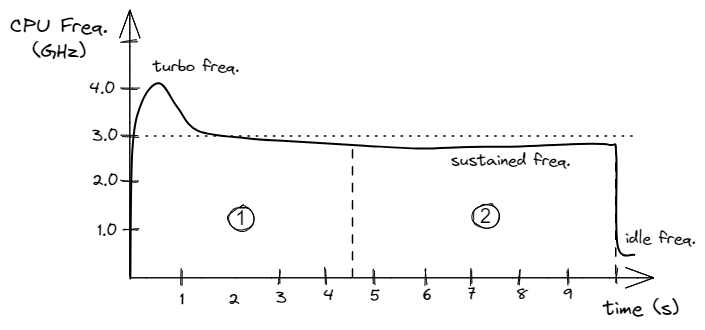
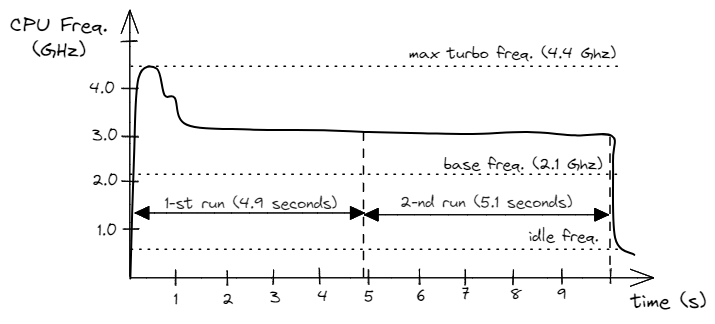
[Chapter2] Rewrite. part1

diff --git a/chapters/2-Measuring-Performance/2-1 Noise In Modern Systems.md b/chapters/2-Measuring-Performance/2-1 Noise In Modern Systems.md
@@ -1,20 +1,18 @@
-
-
 ## Noise in Modern Systems {#sec:secFairExperiments}
 
-There are many features in hardware and software that are designed to increase performance. But not all of them have deterministic behavior. Let's consider [Dynamic Frequency Scaling](https://en.wikipedia.org/wiki/Dynamic_frequency_scaling)[^11] (DFS): this is a feature that allows a CPU to increase its frequency for a short time interval, making it run significantly faster. However, the CPU can't stay in "overclocked" mode for a long time, so later, it decreases its frequency back to the base value. DFS usually depends a lot on a core temperature, which makes it hard to predict the impact on our experiments.
+There are many features in hardware and software that are designed to increase performance, but not all of them have deterministic behavior. Let's consider Dynamic Frequency Scaling (DFS), a feature that allows a CPU to increase its frequency for a short time interval, making it run significantly faster. However, the CPU can't stay in the "overclocked" mode for a long time, so later, it decreases its frequency back to the base value. DFS usually depends a lot on a core temperature, which makes it hard to predict the impact on our experiments.
 
-If we start two runs of the benchmark, one right after another on a "cold" processor,[^1] the first run could possibly work for some time in "overclocked" mode and then decrease its frequency back to the base level. However, it's possible that the second run might not have this advantage and will operate at the base frequency without entering "turbo mode". Even though we run the exact same version of the program two times, the environment in which they run is not the same. Figure @fig:FreqScaling shows a situation where dynamic frequency scaling can cause variance in measurements. As you can see, the first run is 1 second faster than the second one due to the fact that it was running on a higher frequency. Such a scenario can frequently happen when you benchmark software on a laptop since laptops have limited heat dissipation.
+If we start two runs of the benchmark, one right after another on a "cold" processor,[^1] the first run could possibly work for some time in the "overclocked" mode and then decrease its frequency back to the base level. However, it's possible that the second run might not have this advantage and will operate at the base frequency without entering "turbo mode". Even though we run the exact same version of the program two times, the environment in which they run is not the same. Figure @fig:FreqScaling shows a situation where dynamic frequency scaling can cause variance in measurements. As you can see, the first run is 200 milliseconds faster than the second run due to the fact that it was running on a higher frequency in the beginning. Such a scenario can frequently happen when you benchmark software on a laptop since laptops have limited heat dissipation.
 
 ![Variance in performance caused by frequency scaling: the first run is 1 second faster than the second.](../../img/measurements/FreqScaling.jpg){#fig:FreqScaling width=90%}
 
-Frequency Scaling is a hardware feature, but variations in measurements might also come from software features. Let's consider the example of a filesystem cache. If we benchmark an application that does lots of file manipulation, e.g., `git status` command, the filesystem can play a big role in performance. When the first iteration of the benchmark runs, the required entries in the filesystem cache could be missing. However, the filesystem cache will be warmed up when running the same benchmark the second time, making it noticeably faster than the first run.
+Remember that even running Windows task manager or Linux `top` programs, can affect measurements since an additional CPU core will be activated and assigned to it. This might affect the frequency of the core that is running the actual benchmark.
 
-Unfortunately, measurement bias does not only come from environment configuration. [@Mytkowicz09] paper demonstrates that UNIX environment size (i.e., the total number of bytes required to store the environment variables) and link order (the order of object files that are given to the linker) can affect performance in unpredictable ways. Moreover, there are numerous other ways of affecting memory layout and potentially affecting performance measurements. One approach to enable statistically sound performance analysis of software on modern architectures was presented in [@Curtsinger13]. This work shows that it's possible to eliminate measurement bias that comes from memory layout by efficiently and repeatedly randomizing the placement of code, stack, and heap objects at runtime. Sadly, these ideas didn't go much further, and right now, this project is almost abandoned.
+Frequency Scaling is an example of how a hardware feature can cause variations in our measurements, however, they could also come from software. Let's consider benchmarking a `git status` command, which accesses many files. The filesystem plays a big role in performance; in particular, the filesystem cache. On the first run of the benchmark, the required entries in the filesystem cache are missing. The filesystem cache is not effective and our `git status` command runs very slow. However, the second time, the filesystem cache will be warmed up, making it much faster than the first run.
 
-Remember that even running a task manager tool, like Linux `top`, can affect measurements since a CPU core will be activated and assigned to it. This might affect the frequency of the core that is running the actual benchmark.
+You're probably thinking about having a dry run before taking measurements. That certainly helps, unfortunately, measurement bias can persist through the runs as well. [@Mytkowicz09] paper demonstrates that UNIX environment size (i.e., the total number of bytes required to store the environment variables) or the link order (the order of object files that are given to the linker) can affect performance in unpredictable ways. Moreover, there are numerous other ways of affecting memory layout and potentially affecting performance measurements. One approach to enable statistically sound performance analysis of software on modern architectures was presented in [@Curtsinger13]. This work shows that it's possible to eliminate measurement bias that comes from memory layout by efficiently and repeatedly randomizing the placement of code, stack, and heap objects at runtime. Sadly, these ideas didn't go much further, and right now, this project is almost abandoned.
 
-Having consistent measurements requires running all iterations of the benchmark with the same conditions. However, it is not possible to replicate the exact same environment and eliminate bias completely: there could be different temperature conditions, power delivery spikes, neighbor processes running, etc. Chasing all potential sources of noise and variation in the system can be a never-ending story. Sometimes it cannot be achieved, for example, when benchmarking a large distributed cloud service.
+Having consistent measurements requires running all iterations of the benchmark with the same conditions. However, it is not possible to replicate the exact same environment and eliminate bias completely: there could be different temperature conditions, power delivery spikes, neighbor processes running, unexpected system interrupts, etc. Chasing all potential sources of noise and variation in a system can be a never-ending story. Sometimes it cannot be achieved, for example, when benchmarking a large distributed cloud service.
 
 So, eliminating non-determinism in a system is helpful for well-defined, stable performance tests, e.g., microbenchmarks. For instance, when you implement a code change and want to know the relative speedup ratio by benchmarking two different versions of the same program. This is a scenario where you can control most of the variables in the benchmark, including its input, environment configuration, etc. In this situation, eliminating non-determinism in a system helps to get a more consistent and accurate comparison. After finishing with local testing, remember to verify that projected performance improvements are reflected in real-world measurements. Readers can find some examples of features that can bring noise into performance measurements and how to disable them in Appendix A. Also, there are tools that can set up the environment to ensure benchmarking results with a low variance; one such tool is [temci](https://github.com/parttimenerd/temci)[^14].
 
@@ -23,5 +21,4 @@ It is not recommended to eliminate system non-deterministic behavior when estima
 Finally, it's important to keep in mind that even if a particular hardware or software feature has non-deterministic behavior, that doesn't mean it is considered harmful. It could give an inconsistent result, but it is designed to improve the overall performance of the system. Disabling such a feature might reduce the noise in microbenchmarks but make the whole suite run longer. This might be especially important for CI/CD performance testing when there are time limits for how long it should take to run the whole benchmark suite.
 
 [^1]: By cold processor, we mean the CPU that stayed in idle mode for a while, allowing it to cool down its temperature. 
-[^11]: Dynamic Frequency Scaling - [https://en.wikipedia.org/wiki/Dynamic_frequency_scaling](https://en.wikipedia.org/wiki/Dynamic_frequency_scaling).
 [^14]: Temci - [https://github.com/parttimenerd/temci](https://github.com/parttimenerd/temci).

diff --git a/chapters/2-Measuring-Performance/2-0 Measuring Performance.md b/chapters/2-Measuring-Performance/2-0 Measuring Performance.md
@@ -3,16 +3,17 @@
 
 # Measuring Performance {#sec:secMeasPerf}
 
-The first step on the path to understanding the performance of an application is knowing how to measure it. People attribute performance as being one of the features of an application.[^15] But unlike other features, performance is not a boolean property: an application can be very slow, blazingly fast or anywhere in between. This is why it's impossible to answer "yes" or "no" to the question of whether an application has performance. 
+The first step to understand the performance of an application is to measure it. An application can be slow, fast, or anywhere in between. Performance problems are often harder to reproduce and root cause than most functional issues. Every run of a program is usually functionally the same but somewhat different from a performance standpoint. For example, when unpacking a zip file, we get the same result over and over again, which means this operation is reproducible. However, it's impossible to reproduce the same CPU cycle-by-cycle performance profile of this operation.
 
-Performance problems are usually harder to track down and reproduce than most functional issues. However, sometimes we have to deal with non-deterministic and hard-to-reproduce performance bugs as well. Often, every run of a program is functionally the same but somewhat different from a performance standpoint. For example, when unpacking a zip file, we get the same result over and over again, which means this operation is reproducible. However, it's impossible to reproduce the same CPU cycle-by-cycle performance profile of this operation.
+Anyone ever concerned with performance evaluations likely knows how hard it is sometimes to conduct fair performance measurements and draw accurate conclusions from them. Performance measurements can be very unexpected and counterintuitive. Changing a seemingly unrelated part of the source code can surprise us with a significant impact on the performance of the program. This phenomenon is called measurement bias. Because of the presence of an error in measurements, performance analysis requires statistical methods to process them. This chapter barely scratches the surface since this topic deserves a whole book just by itself. There are many corner cases and a huge amount of research done in this field. We only discuss high-level ideas and give basic directions to follow.
 
-Anyone ever concerned with performance evaluations likely knows how hard it is sometimes to conduct fair performance measurements and draw accurate conclusions from them. Performance measurements can be very unexpected and counterintuitive. Changing a seemingly unrelated part of the source code can surprise us with a significant impact on program performance. This phenomenon is called measurement bias. Because of the presence of an error in measurements, performance analysis requires statistical methods to process them. This topic deserves a whole book just by itself. There are many corner cases and a huge amount of research done in this field. We will not go all the way down this rabbit hole. Instead, we will just focus on high-level ideas and directions to follow.
+Conducting fair performance experiments is an essential step towards getting accurate and meaningful results. You need to ensure you're looking at the right problem, and are not debugging some unrelated issue. Designing performance tests and configuring the environment are both important components in the process of evaluating performance. 
 
-Conducting fair performance experiments is an essential step towards getting accurate and meaningful results. Designing performance tests and configuring the environment are both important components in the process of evaluating performance. This chapter will give a brief introduction to why modern systems yield noisy performance measurements and what you can do about it. We will touch on the importance of measuring performance in real production deployments. 
+In this chapter, we:
 
-Not a single long-living product exists without ever having performance regressions. This is especially important for large projects with lots of contributors where changes are coming at a very fast pace. This chapter devotes a few pages to discussing the automated process of tracking performance changes in Continuous Integration and Continuous Delivery (CI/CD) systems. We also present general guidance on how to properly collect and analyze performance measurements when developers implement changes in their source codebase.
-
-The end of the chapter describes software and hardware timers that can be used by developers in time-based measurements and common pitfalls when designing and writing a good microbenchmark.
-
-[^15]: Blog post by Nelson Elhage "Reflections on software performance": [https://blog.nelhage.com/post/reflections-on-performance/](https://blog.nelhage.com/post/reflections-on-performance/).
+- Give a brief introduction to why modern systems yield noisy performance measurements and what you can do about it. 
+- Explain why it is important to measure performance in production deployments.
+- Provide general guidance on how to properly collect and analyze performance measurements. 
+- Explore how to automatically detect performance regressions as you implement changes in your codebase.
+- Describe software and hardware timers that can be used by developers in time-based measurements. 
+- Discuss how to write a good microbenchmark and some common pitfalls you may encounter while doing it.
